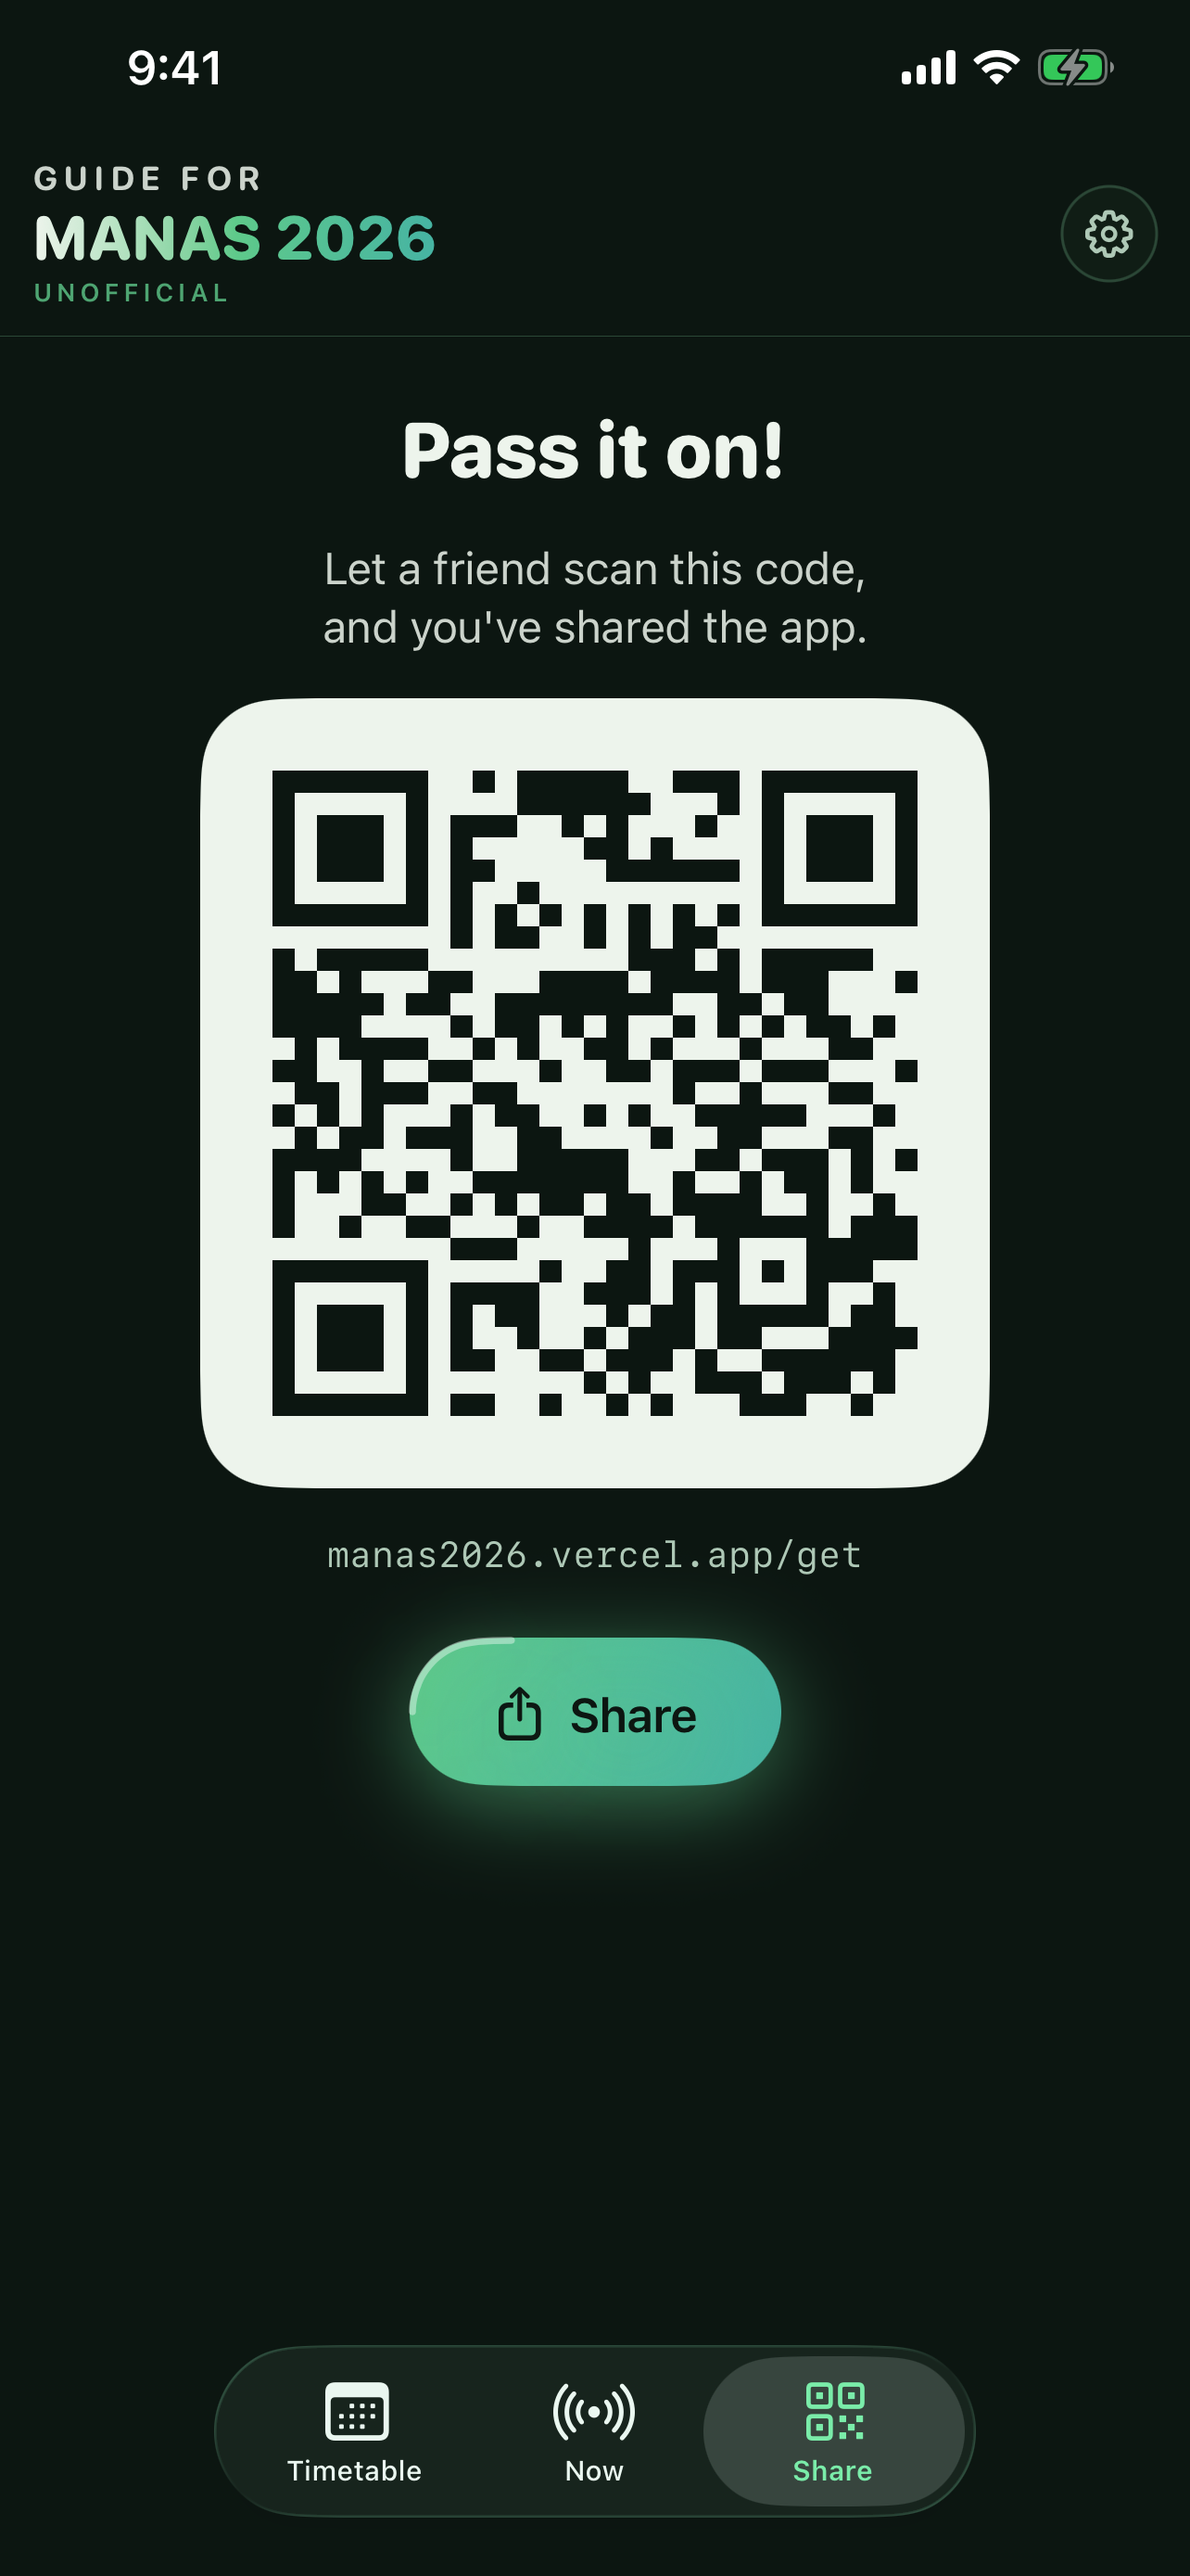
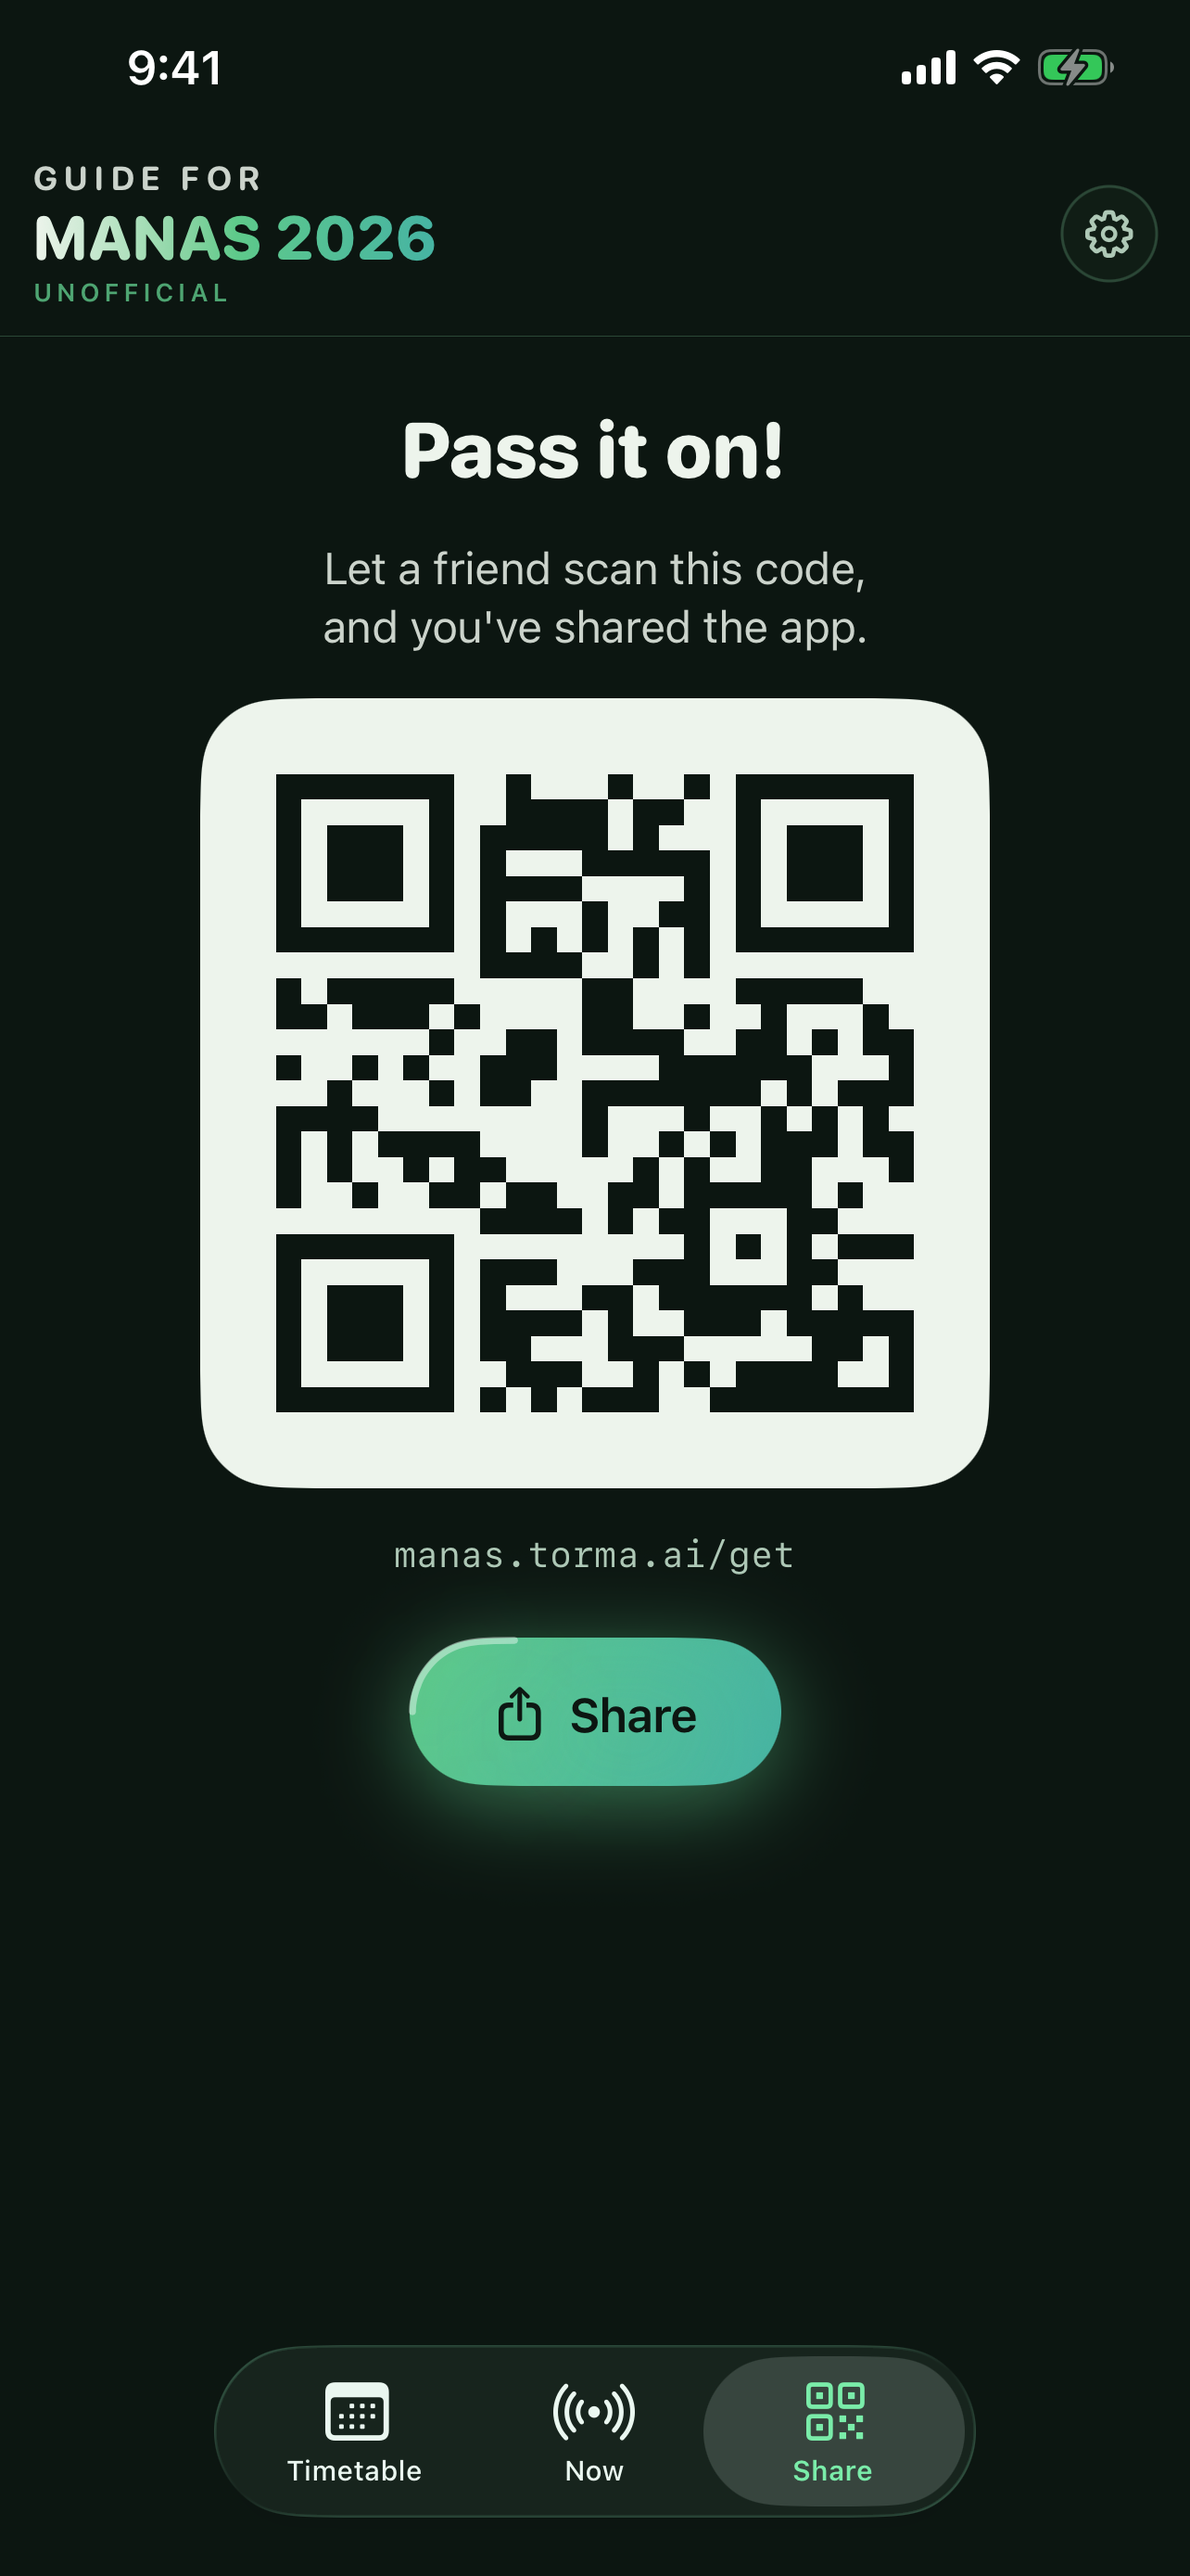
fix: point the share QR at /get and the share button at /app (web + iOS)
The QR is for in-person scanning, so it encodes /get (iPhone → App Store,
anything else → the web app). The native share sheet hands out the /app
showcase landing page instead. Applied identically on web (lib/platform.ts
QR_URL vs SHARE_URL) and iOS (AppLinks.qr vs AppLinks.share); the printed link
under the QR follows the QR (/get). Bumps the service worker cache to manas-v12.

diff --git a/pwa/components/ShareView.tsx b/pwa/components/ShareView.tsx
@@ -4,20 +4,21 @@ import { useEffect, useState } from "react";
 import { useTranslations } from "next-intl";
 import { QRCodeSVG } from "qrcode.react";
 import { Check, Copy, Share2 } from "lucide-react";
-import { SHARE_URL } from "@/lib/platform";
+import { QR_URL, SHARE_URL } from "@/lib/platform";
 
 // Refined pill shared by the share / copy primary actions.
 const PRIMARY_BTN =
   "inline-flex items-center justify-center gap-2 rounded-full bg-gradient-to-b from-sun to-leaf px-6 py-2.5 font-display text-sm font-bold text-ink shadow-[0_8px_24px_-6px_rgba(94,201,138,0.55)] transition active:scale-95";
 
-// The /share page: a big QR a friend just points their phone at. The code encodes
-// the canonical /app showcase page (App Store / web app download links). On devices
-// with the native share sheet (iOS / macOS / Android) the primary action opens it
-// and a small copy button sits next to the URL; elsewhere the primary action copies
-// the link (so no separate inline copy is needed).
+// The /share page: a big QR a friend just points their phone at. The QR (and the
+// printed/copied link) encodes /get, which routes the scanner: iPhone → App Store,
+// anything else → the web app. The native share button hands out the /app showcase
+// page instead. On devices with the share sheet (iOS / macOS / Android) the primary
+// action opens it and a small copy button sits next to the URL; elsewhere the
+// primary action copies the link (so no separate inline copy is needed).
 export function ShareView() {
   const t = useTranslations("share");
-  const url = SHARE_URL;
+  const url = QR_URL;
   const [copied, setCopied] = useState(false);
   const [canShare, setCanShare] = useState(false);
 
@@ -43,7 +44,7 @@ export function ShareView() {
 
   const share = async () => {
     try {
-      await navigator.share({ title: "MANAS 2026", text: t("invite"), url });
+      await navigator.share({ title: "MANAS 2026", text: t("invite"), url: SHARE_URL });
     } catch {
       /* user cancelled, or share unsupported for this payload */
     }

diff --git a/apple/Sources/Manas-iOS/ShareView.swift b/apple/Sources/Manas-iOS/ShareView.swift
@@ -2,13 +2,14 @@ import SwiftUI
 import CoreImage.CIFilterBuiltins
 
 /// "Add tovább" tab — the iOS parity of the web `/share` page: a full screen with
-/// a big QR a friend points their phone at (encodes `AppLinks.share` → App Store
-/// on iPhone, the web app elsewhere) plus the native iOS share sheet.
+/// a big QR a friend points their phone at (encodes `AppLinks.qr` → `/get` → App
+/// Store on iPhone, the web app elsewhere) plus the native iOS share sheet, which
+/// hands out the `/app` showcase page (`AppLinks.share`).
 struct ShareView: View {
     @EnvironmentObject var settings: Settings
 
     private var prettyURL: String {
-        AppLinks.share.absoluteString.replacingOccurrences(of: "https://", with: "")
+        AppLinks.qr.absoluteString.replacingOccurrences(of: "https://", with: "")
     }
 
     var body: some View {
@@ -23,7 +24,7 @@ struct ShareView: View {
                     .multilineTextAlignment(.center)
                     .fixedSize(horizontal: false, vertical: true)
 
-                if let qr = QRCode.image(AppLinks.share.absoluteString) {
+                if let qr = QRCode.image(AppLinks.qr.absoluteString) {
                     Image(uiImage: qr)
                         .interpolation(.none)           // keep the modules crisp when scaled
                         .resizable()

diff --git a/apple/Sources/ManasKit/AppState.swift b/apple/Sources/ManasKit/AppState.swift
@@ -17,12 +17,13 @@ public enum SharedDefaults {
     public static let debugNowKey = "manas.debugNow"
 }
 
-/// Canonical outbound links. `share` is the universal hand-off URL the QR / share
-/// sheet passes around (the `/app` showcase page on the canonical domain),
-/// mirroring the web share page. Apple ID matches `apple/CLAUDE.md`.
+/// Canonical outbound links. The native share sheet hands out `share` (the `/app`
+/// showcase page); the QR encodes `qr` (`/get`), which routes the scanner: iPhone →
+/// App Store, anything else → the web app. Apple ID matches `apple/CLAUDE.md`.
 public enum AppLinks {
     public static let appStore = URL(string: "https://apps.apple.com/app/id6782099675")!
     public static let share = URL(string: "https://manas.torma.ai/app")!
+    public static let qr = URL(string: "https://manas.torma.ai/get")!
 }
 
 /// User preferences: stage order, hidden stages, language, and how many stage

diff --git a/pwa/lib/platform.ts b/pwa/lib/platform.ts
@@ -8,8 +8,11 @@ export const SITE_URL = "https://manas.torma.ai";
 
 export const APP_STORE_URL = "https://apps.apple.com/app/id6782099675";
 
-// Web Share / QR target: the /app showcase landing page on the canonical domain.
+// The native share sheet hands out the /app showcase landing page; the QR (and the
+// printed/copied link beneath it) use /get, which routes the scanner: iPhone → App
+// Store, anything else → the web app.
 export const SHARE_URL = `${SITE_URL}/app`;
+export const QR_URL = `${SITE_URL}/get`;
 
 function ua(): string {
   return typeof navigator === "undefined" ? "" : navigator.userAgent;

diff --git a/pwa/public/sw.js b/pwa/public/sw.js
@@ -3,7 +3,7 @@
    - navigations   : network-first, fall back to cached page (or "/")
    - static assets : cache-first
 */
-const VERSION = "manas-v11";
+const VERSION = "manas-v12";
 const SHELL = `${VERSION}-shell`;
 const API = `${VERSION}-api`;
 
